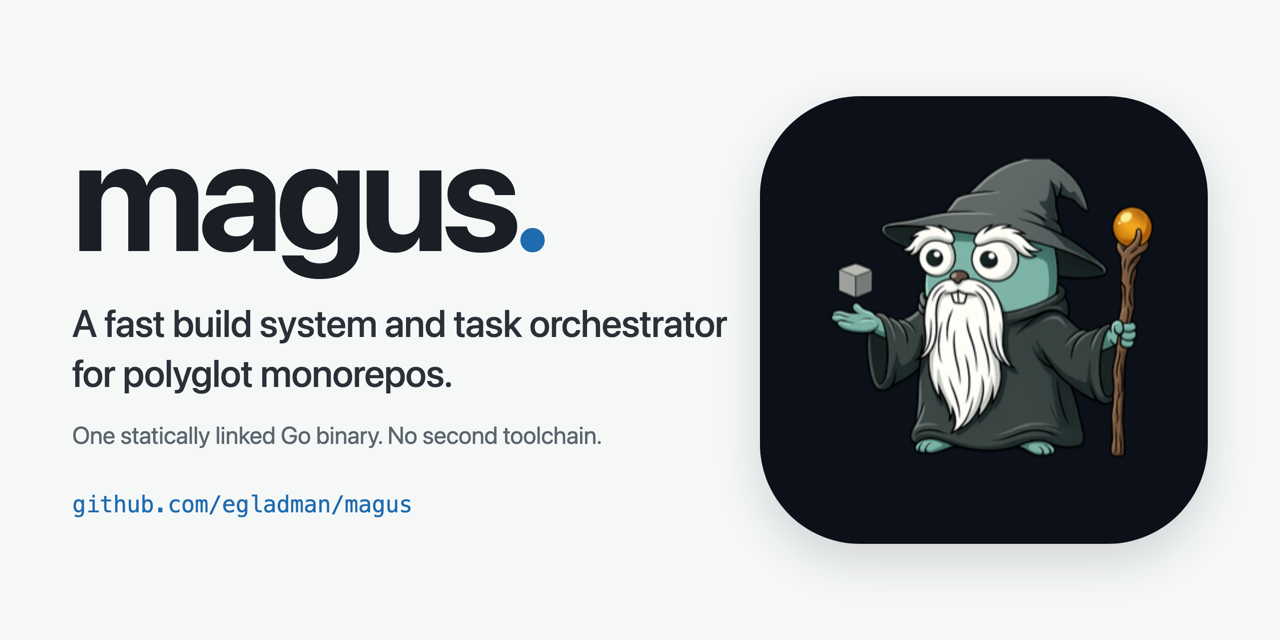
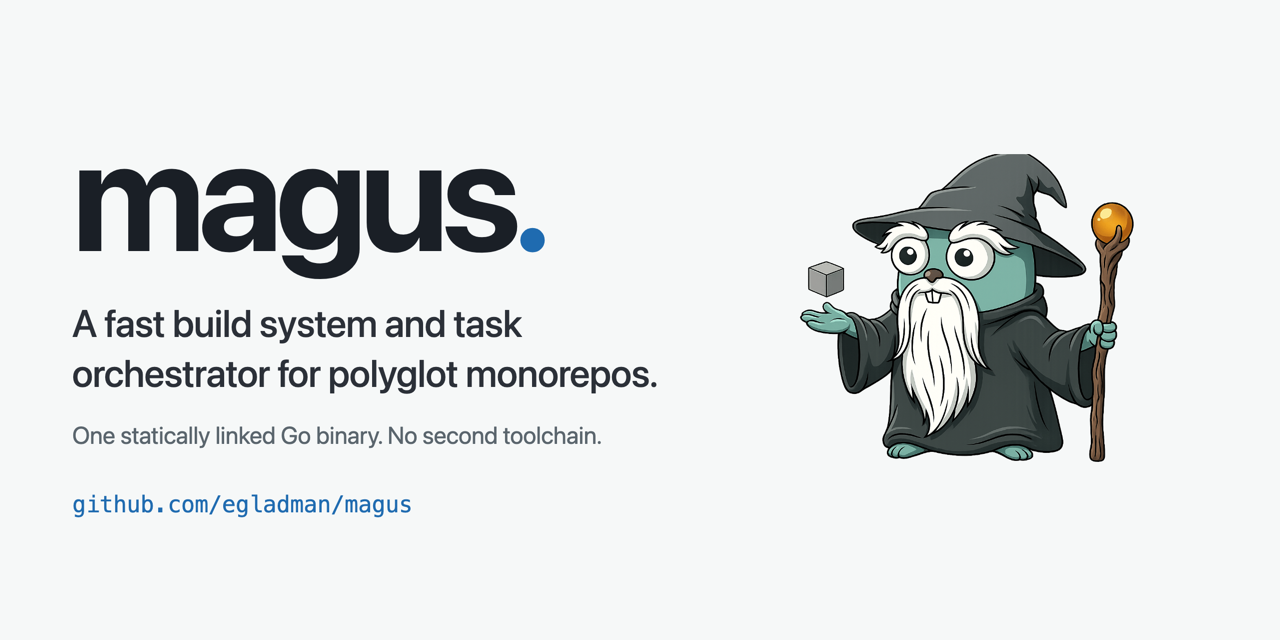
render the social preview card on white from gopher.png

Changed region(s): [[0.5938, 0.125, 0.9688, 0.875], [0.0312, 0.5625, 0.5312, 0.625], [0.4062, 0.4688, 0.5625, 0.5312]]

diff --git a/assets/social-preview.html b/assets/social-preview.html
@@ -56,18 +56,8 @@
     letter-spacing: -0.01em;
   }
 
-  .art { flex: 0 0 auto; display: flex; align-items: center; }
-  .tile {
-    width: 448px;
-    height: 448px;
-    border-radius: 100px;
-    overflow: hidden;
-    display: flex;
-    align-items: center;
-    justify-content: center;
-    box-shadow: 0 18px 44px rgba(26, 31, 38, .16);
-  }
-  .tile img { width: 138%; height: 138%; display: block; }
+  .art { flex: 0 0 auto; width: 498px; display: flex; align-items: center; }
+  .art img { width: 100%; height: auto; display: block; }
 </style>
 
 <div class="card">
@@ -77,5 +67,5 @@
     <div class="sub">One statically linked Go binary. No second toolchain.</div>
     <div class="url">github.com/egladman/magus</div>
   </div>
-  <div class="art"><div class="tile"><img src="icon-512.png" alt=""></div></div>
+  <div class="art"><img src="gopher.png" alt=""></div>
 </div>
